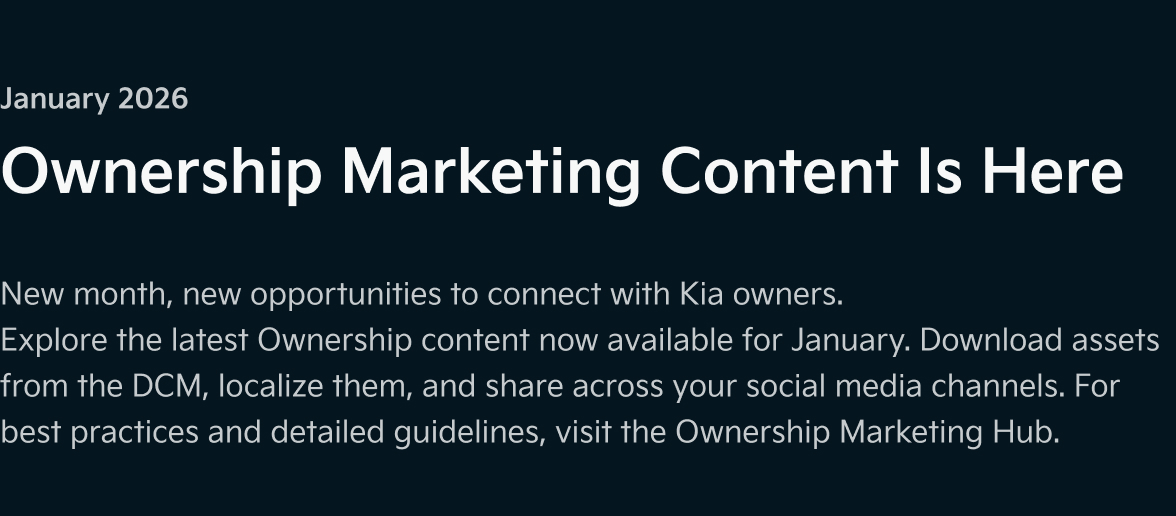
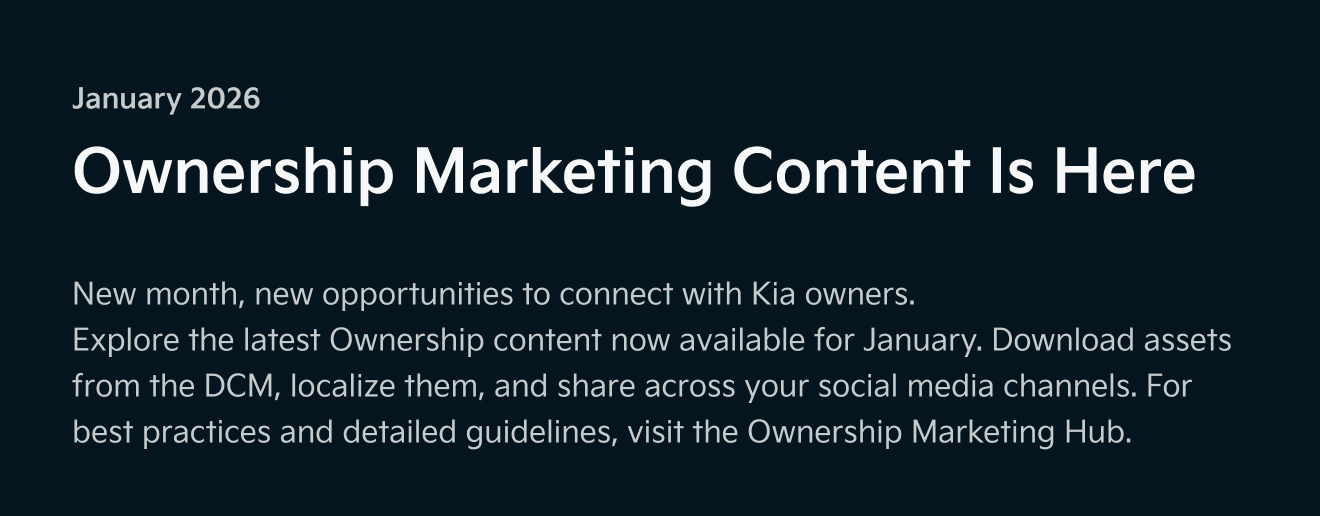
GITBOOK-211: No subject

diff --git a/newsletter-img.md b/newsletter-img.md
@@ -42,9 +42,44 @@ hidden: true
 
 ## Test - Img조각(2배)
 
-<div><figure><img src=".gitbook/assets/01-logo.jpg" alt=""><figcaption></figcaption></figure> <figure><img src=".gitbook/assets/02-img-1.jpg" alt=""><figcaption></figcaption></figure> <figure><img src=".gitbook/assets/03-text.jpg" alt=""><figcaption></figcaption></figure> <figure><img src=".gitbook/assets/04-button.jpg" alt=""><figcaption></figcaption></figure> <figure><img src=".gitbook/assets/05-title.jpg" alt=""><figcaption></figcaption></figure> <figure><img src=".gitbook/assets/06-1-card.jpg" alt=""><figcaption></figcaption></figure> <figure><img src=".gitbook/assets/06-2-card.jpg" alt=""><figcaption></figcaption></figure> <figure><img src=".gitbook/assets/06-3-card.jpg" alt=""><figcaption></figcaption></figure> <figure><img src=".gitbook/assets/07-margin.jpg" alt=""><figcaption></figcaption></figure> <figure><img src=".gitbook/assets/08-1-card.jpg" alt=""><figcaption></figcaption></figure> <figure><img src=".gitbook/assets/08-2-card.jpg" alt=""><figcaption></figcaption></figure> <figure><img src=".gitbook/assets/09-margin.jpg" alt=""><figcaption></figcaption></figure> <figure><img src=".gitbook/assets/10-1-text.jpg" alt=""><figcaption></figcaption></figure> <figure><img src=".gitbook/assets/10-2-facebook.jpg" alt=""><figcaption></figcaption></figure> <figure><img src=".gitbook/assets/10-3-instagram.jpg" alt=""><figcaption></figcaption></figure> <figure><img src=".gitbook/assets/10-4-x.jpg" alt=""><figcaption></figcaption></figure> <figure><img src=".gitbook/assets/11.jpg" alt=""><figcaption></figcaption></figure> <figure><img src=".gitbook/assets/12-1.jpg" alt=""><figcaption></figcaption></figure> <figure><img src=".gitbook/assets/12-2.jpg" alt=""><figcaption></figcaption></figure> <figure><img src=".gitbook/assets/12-3.jpg" alt=""><figcaption></figcaption></figure> <figure><img src=".gitbook/assets/12-4.jpg" alt=""><figcaption></figcaption></figure> <figure><img src=".gitbook/assets/13.jpg" alt=""><figcaption></figcaption></figure> <figure><img src=".gitbook/assets/07-margin-1.jpg" alt=""><figcaption></figcaption></figure></div>
+<div><figure><img src=".gitbook/assets/01-logo.jpg" alt=""><figcaption></figcaption></figure> <figure><img src=".gitbook/assets/02-img-1.jpg" alt=""><figcaption></figcaption></figure> <figure><img src=".gitbook/assets/03-text (1).jpg" alt=""><figcaption></figcaption></figure> <figure><img src=".gitbook/assets/04-button.jpg" alt=""><figcaption></figcaption></figure> <figure><img src=".gitbook/assets/05-title.jpg" alt=""><figcaption></figcaption></figure> <figure><img src=".gitbook/assets/06-1-card.jpg" alt=""><figcaption></figcaption></figure> <figure><img src=".gitbook/assets/06-2-card.jpg" alt=""><figcaption></figcaption></figure> <figure><img src=".gitbook/assets/06-3-card.jpg" alt=""><figcaption></figcaption></figure> <figure><img src=".gitbook/assets/07-margin.jpg" alt=""><figcaption></figcaption></figure> <figure><img src=".gitbook/assets/08-1-card.jpg" alt=""><figcaption></figcaption></figure> <figure><img src=".gitbook/assets/08-2-card.jpg" alt=""><figcaption></figcaption></figure> <figure><img src=".gitbook/assets/09-margin.jpg" alt=""><figcaption></figcaption></figure> <figure><img src=".gitbook/assets/10-1-text.jpg" alt=""><figcaption></figcaption></figure> <figure><img src=".gitbook/assets/10-2-facebook.jpg" alt=""><figcaption></figcaption></figure> <figure><img src=".gitbook/assets/10-3-instagram.jpg" alt=""><figcaption></figcaption></figure> <figure><img src=".gitbook/assets/10-4-x.jpg" alt=""><figcaption></figcaption></figure> <figure><img src=".gitbook/assets/11.jpg" alt=""><figcaption></figcaption></figure> <figure><img src=".gitbook/assets/12-1.jpg" alt=""><figcaption></figcaption></figure> <figure><img src=".gitbook/assets/12-2.jpg" alt=""><figcaption></figcaption></figure> <figure><img src=".gitbook/assets/12-3.jpg" alt=""><figcaption></figcaption></figure> <figure><img src=".gitbook/assets/12-4.jpg" alt=""><figcaption></figcaption></figure> <figure><img src=".gitbook/assets/13.jpg" alt=""><figcaption></figcaption></figure> <figure><img src=".gitbook/assets/07-margin-1.jpg" alt=""><figcaption></figcaption></figure></div>
 
 v.2 11번 구분
 
 <div><figure><img src=".gitbook/assets/Component 53 (1).jpg" alt=""><figcaption></figcaption></figure> <figure><img src=".gitbook/assets/Group 807.jpg" alt=""><figcaption></figcaption></figure></div>
+
+
+
+## Newsletter Test - 다크모드 (660px @2배수 추출)&#x20;
+
+#### 01-공통 리소스: 로고
+
+이미지 URL: [https://images.gitbook.com/\_\_img/dpr=2,width=2400,onerror=redirect,format=auto,signature=1513338626/https%3A%2F%2Ffiles.gitbook.com%2Fv0%2Fb%2Fgitbook-x-prod.appspot.com%2Fo%2Fspaces%252Fw5lfZjNS4U8oixK11ksH%252Fuploads%252FXetpfraBBVxnZxmgNWZb%252F01-logo.jpg%3Falt%3Dmedia%26token%3Dfe13a548-7c6e-4e32-89b4-bbadeb82b27f](https://images.gitbook.com/__img/dpr=2,width=2400,onerror=redirect,format=auto,signature=1513338626/https%3A%2F%2Ffiles.gitbook.com%2Fv0%2Fb%2Fgitbook-x-prod.appspot.com%2Fo%2Fspaces%2Fw5lfZjNS4U8oixK11ksH%2Fuploads%2FXetpfraBBVxnZxmgNWZb%2F01-logo.jpg%3Falt%3Dmedia%26token%3Dfe13a548-7c6e-4e32-89b4-bbadeb82b27f)
+
+#### 02-KV 이미지&#x20;
+
+<figure><img src=".gitbook/assets/02-img-tasman.jpg" alt=""><figcaption></figcaption></figure>
+
+* 11월&#x20;
+  * URL: [https://images.gitbook.com/\_\_img/dpr=2,width=2400,onerror=redirect,format=auto,signature=-673304902/https%3A%2F%2Ffiles.gitbook.com%2Fv0%2Fb%2Fgitbook-x-prod.appspot.com%2Fo%2Fspaces%252Fw5lfZjNS4U8oixK11ksH%252Fuploads%252FX4TfSGBdoriq16qUemqd%252F02-img-tasman.jpg%3Falt%3Dmedia%26token%3D62a57603-d27b-4ef8-bc88-b1e68f97258f](https://images.gitbook.com/__img/dpr=2,width=2400,onerror=redirect,format=auto,signature=-673304902/https%3A%2F%2Ffiles.gitbook.com%2Fv0%2Fb%2Fgitbook-x-prod.appspot.com%2Fo%2Fspaces%2Fw5lfZjNS4U8oixK11ksH%2Fuploads%2FX4TfSGBdoriq16qUemqd%2F02-img-tasman.jpg%3Falt%3Dmedia%26token%3D62a57603-d27b-4ef8-bc88-b1e68f97258f)
+
+#### 03- 본문 텍스트
+
+<figure><img src=".gitbook/assets/03-text.jpg" alt=""><figcaption></figcaption></figure>
+
+* 11월
+  * URL: [https://images.gitbook.com/\_\_img/dpr=2,width=2400,onerror=redirect,format=auto,signature=121195600/https%3A%2F%2Ffiles.gitbook.com%2Fv0%2Fb%2Fgitbook-x-prod.appspot.com%2Fo%2Fspaces%252Fw5lfZjNS4U8oixK11ksH%252Fuploads%252FoG8bPm4AfxB2ekZbotpT%252F03-text.jpg%3Falt%3Dmedia%26token%3Db5277e67-f2b4-4065-99c7-d2111cd15813](https://images.gitbook.com/__img/dpr=2,width=2400,onerror=redirect,format=auto,signature=121195600/https%3A%2F%2Ffiles.gitbook.com%2Fv0%2Fb%2Fgitbook-x-prod.appspot.com%2Fo%2Fspaces%2Fw5lfZjNS4U8oixK11ksH%2Fuploads%2FoG8bPm4AfxB2ekZbotpT%2F03-text.jpg%3Falt%3Dmedia%26token%3Db5277e67-f2b4-4065-99c7-d2111cd15813)
+
+#### 04-공통 리소스: Ownership Marketing Hub 버튼
+
+<div><figure><img src=".gitbook/assets/04-1.jpg" alt=""><figcaption></figcaption></figure> <figure><img src=".gitbook/assets/04-2-button.jpg" alt=""><figcaption></figcaption></figure> <figure><img src=".gitbook/assets/04-3.jpg" alt=""><figcaption></figcaption></figure></div>
+
+* URL (좌측부터)
+  * [https://images.gitbook.com/\_\_img/dpr=2,width=2400,onerror=redirect,format=auto,signature=-403456806/https%3A%2F%2Ffiles.gitbook.com%2Fv0%2Fb%2Fgitbook-x-prod.appspot.com%2Fo%2Fspaces%252Fw5lfZjNS4U8oixK11ksH%252Fuploads%252FlwktUCeAvN0Skc1NfgkK%252F04-1.jpg%3Falt%3Dmedia%26token%3D21e12c13-d0ac-4bac-9fa3-e10c57319460](https://images.gitbook.com/__img/dpr=2,width=2400,onerror=redirect,format=auto,signature=-403456806/https%3A%2F%2Ffiles.gitbook.com%2Fv0%2Fb%2Fgitbook-x-prod.appspot.com%2Fo%2Fspaces%2Fw5lfZjNS4U8oixK11ksH%2Fuploads%2FlwktUCeAvN0Skc1NfgkK%2F04-1.jpg%3Falt%3Dmedia%26token%3D21e12c13-d0ac-4bac-9fa3-e10c57319460)
+  * [https://images.gitbook.com/\_\_img/dpr=2,width=2400,onerror=redirect,format=auto,signature=-1922636328/https%3A%2F%2Ffiles.gitbook.com%2Fv0%2Fb%2Fgitbook-x-prod.appspot.com%2Fo%2Fspaces%252Fw5lfZjNS4U8oixK11ksH%252Fuploads%252FIq9LvBaaCY0e0GQR7WE1%252F04-2-button.jpg%3Falt%3Dmedia%26token%3D69ce491e-728b-4415-9b5e-aab8bda3a2e0](https://images.gitbook.com/__img/dpr=2,width=2400,onerror=redirect,format=auto,signature=-1922636328/https%3A%2F%2Ffiles.gitbook.com%2Fv0%2Fb%2Fgitbook-x-prod.appspot.com%2Fo%2Fspaces%2Fw5lfZjNS4U8oixK11ksH%2Fuploads%2FIq9LvBaaCY0e0GQR7WE1%2F04-2-button.jpg%3Falt%3Dmedia%26token%3D69ce491e-728b-4415-9b5e-aab8bda3a2e0)
+  * [https://images.gitbook.com/\_\_img/dpr=2,width=2400,onerror=redirect,format=auto,signature=79667709/https%3A%2F%2Ffiles.gitbook.com%2Fv0%2Fb%2Fgitbook-x-prod.appspot.com%2Fo%2Fspaces%252Fw5lfZjNS4U8oixK11ksH%252Fuploads%252F3ryvTqHV4ATKSQ4ThIN4%252F04-3.jpg%3Falt%3Dmedia%26token%3De24c0453-4f31-443d-bf12-215184144cb2](https://images.gitbook.com/__img/dpr=2,width=2400,onerror=redirect,format=auto,signature=79667709/https%3A%2F%2Ffiles.gitbook.com%2Fv0%2Fb%2Fgitbook-x-prod.appspot.com%2Fo%2Fspaces%2Fw5lfZjNS4U8oixK11ksH%2Fuploads%2F3ryvTqHV4ATKSQ4ThIN4%2F04-3.jpg%3Falt%3Dmedia%26token%3De24c0453-4f31-443d-bf12-215184144cb2)
+
+ㄱ
+
+
 
